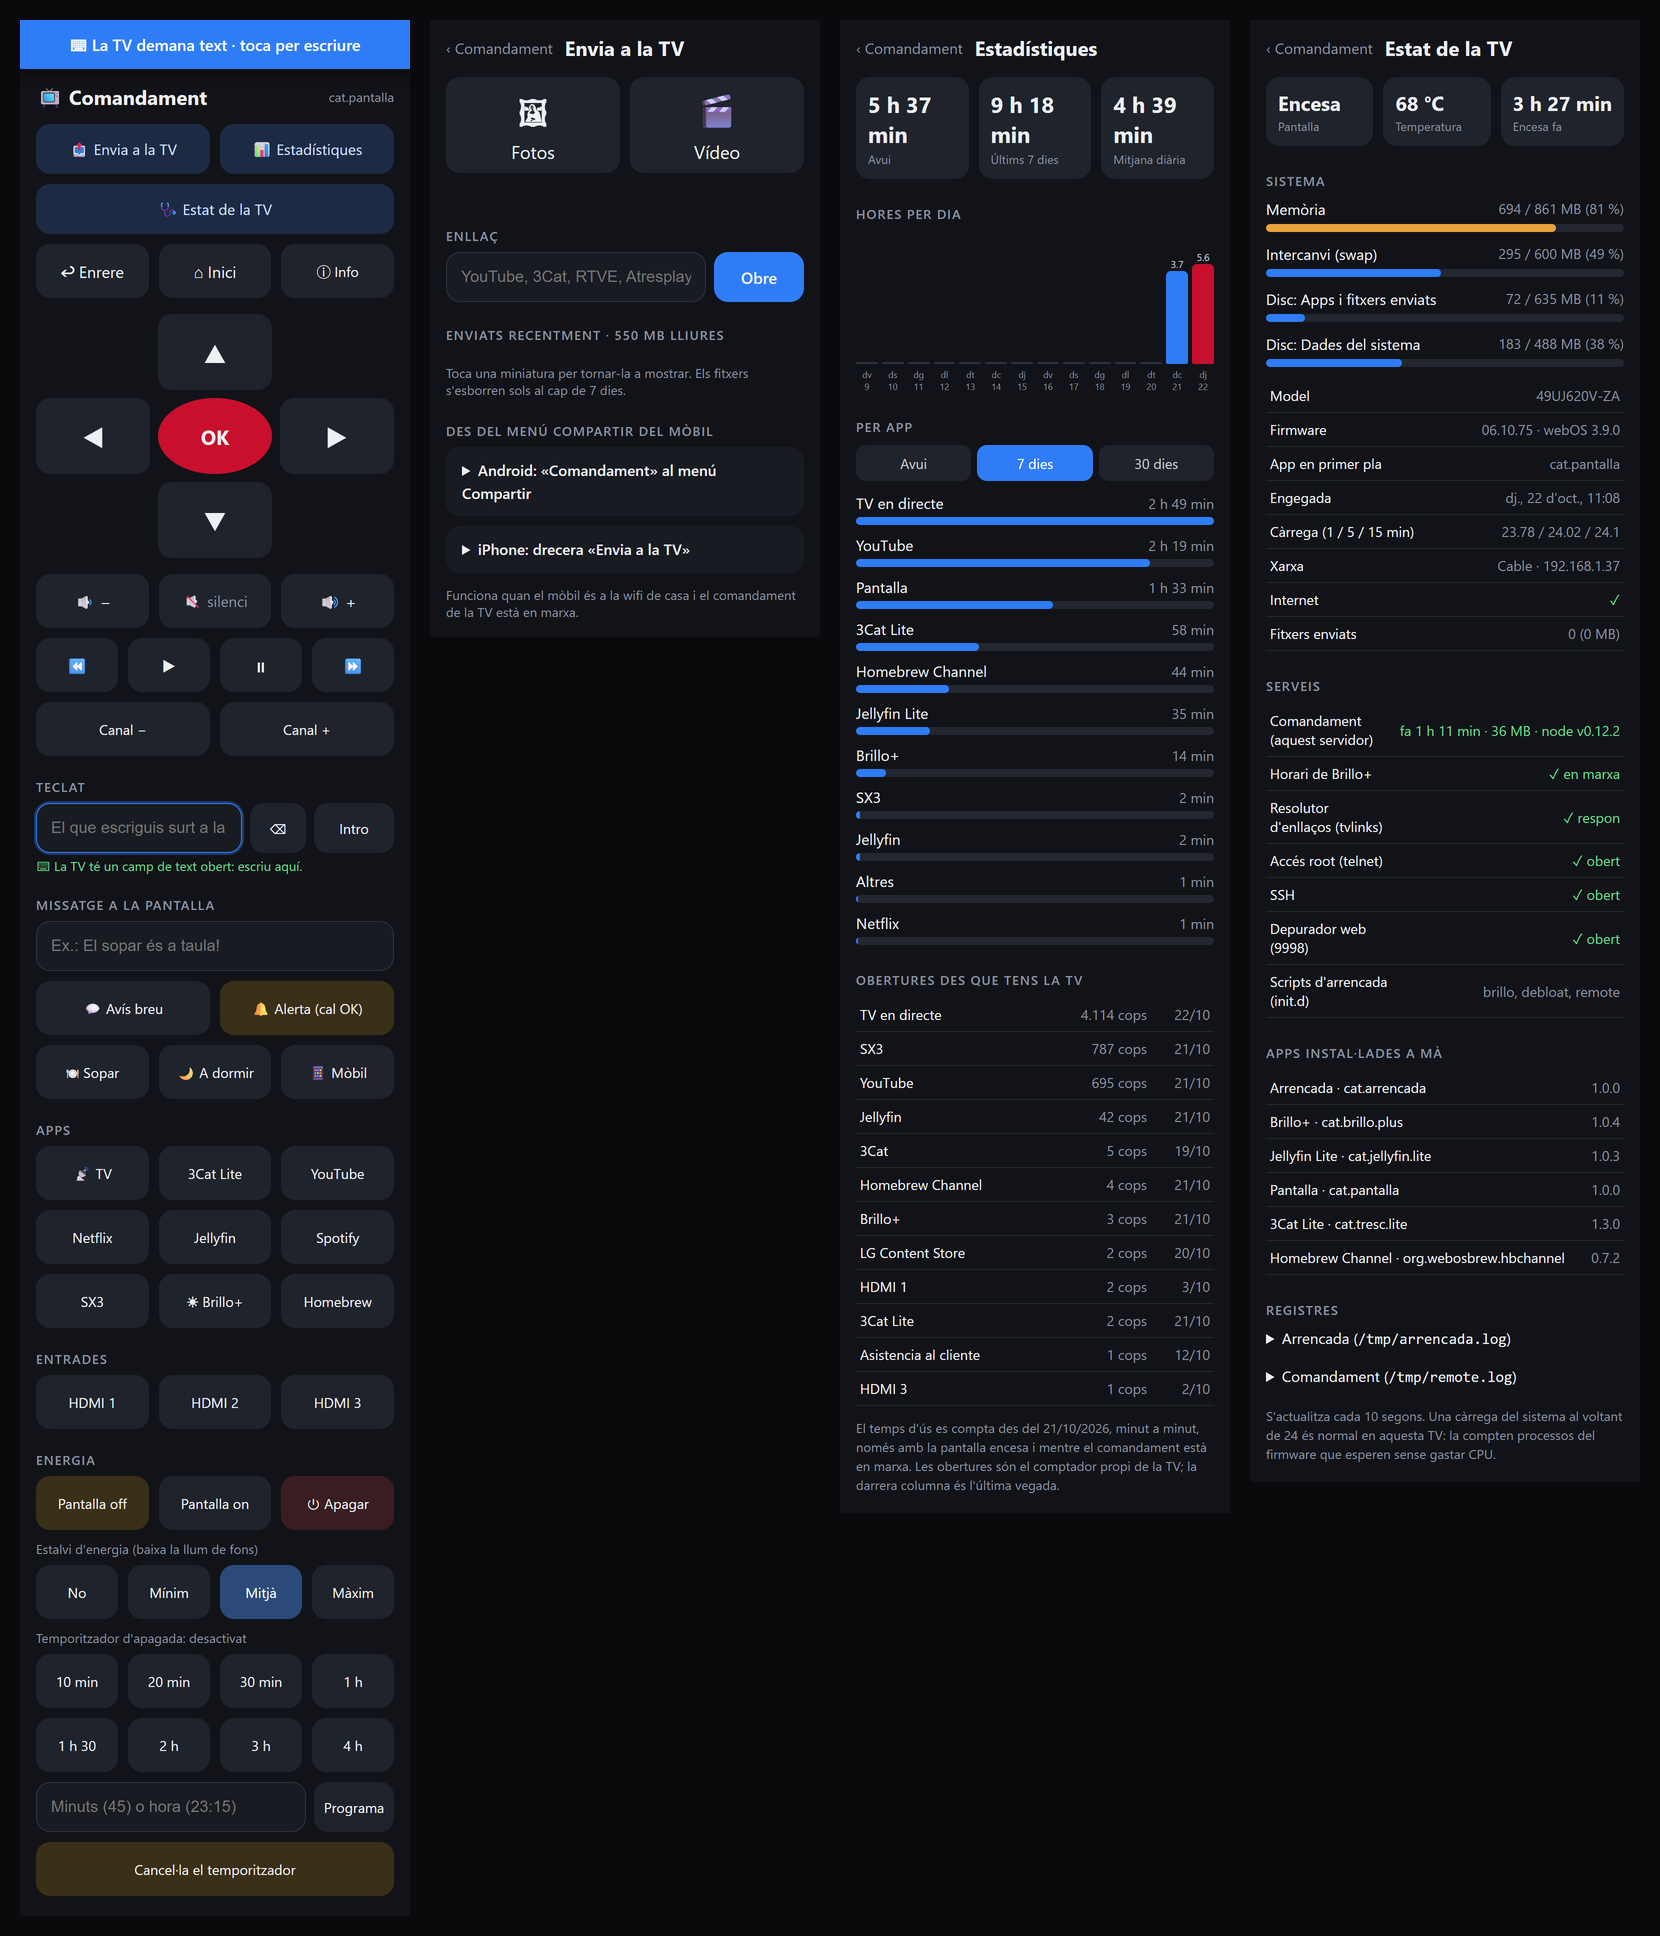
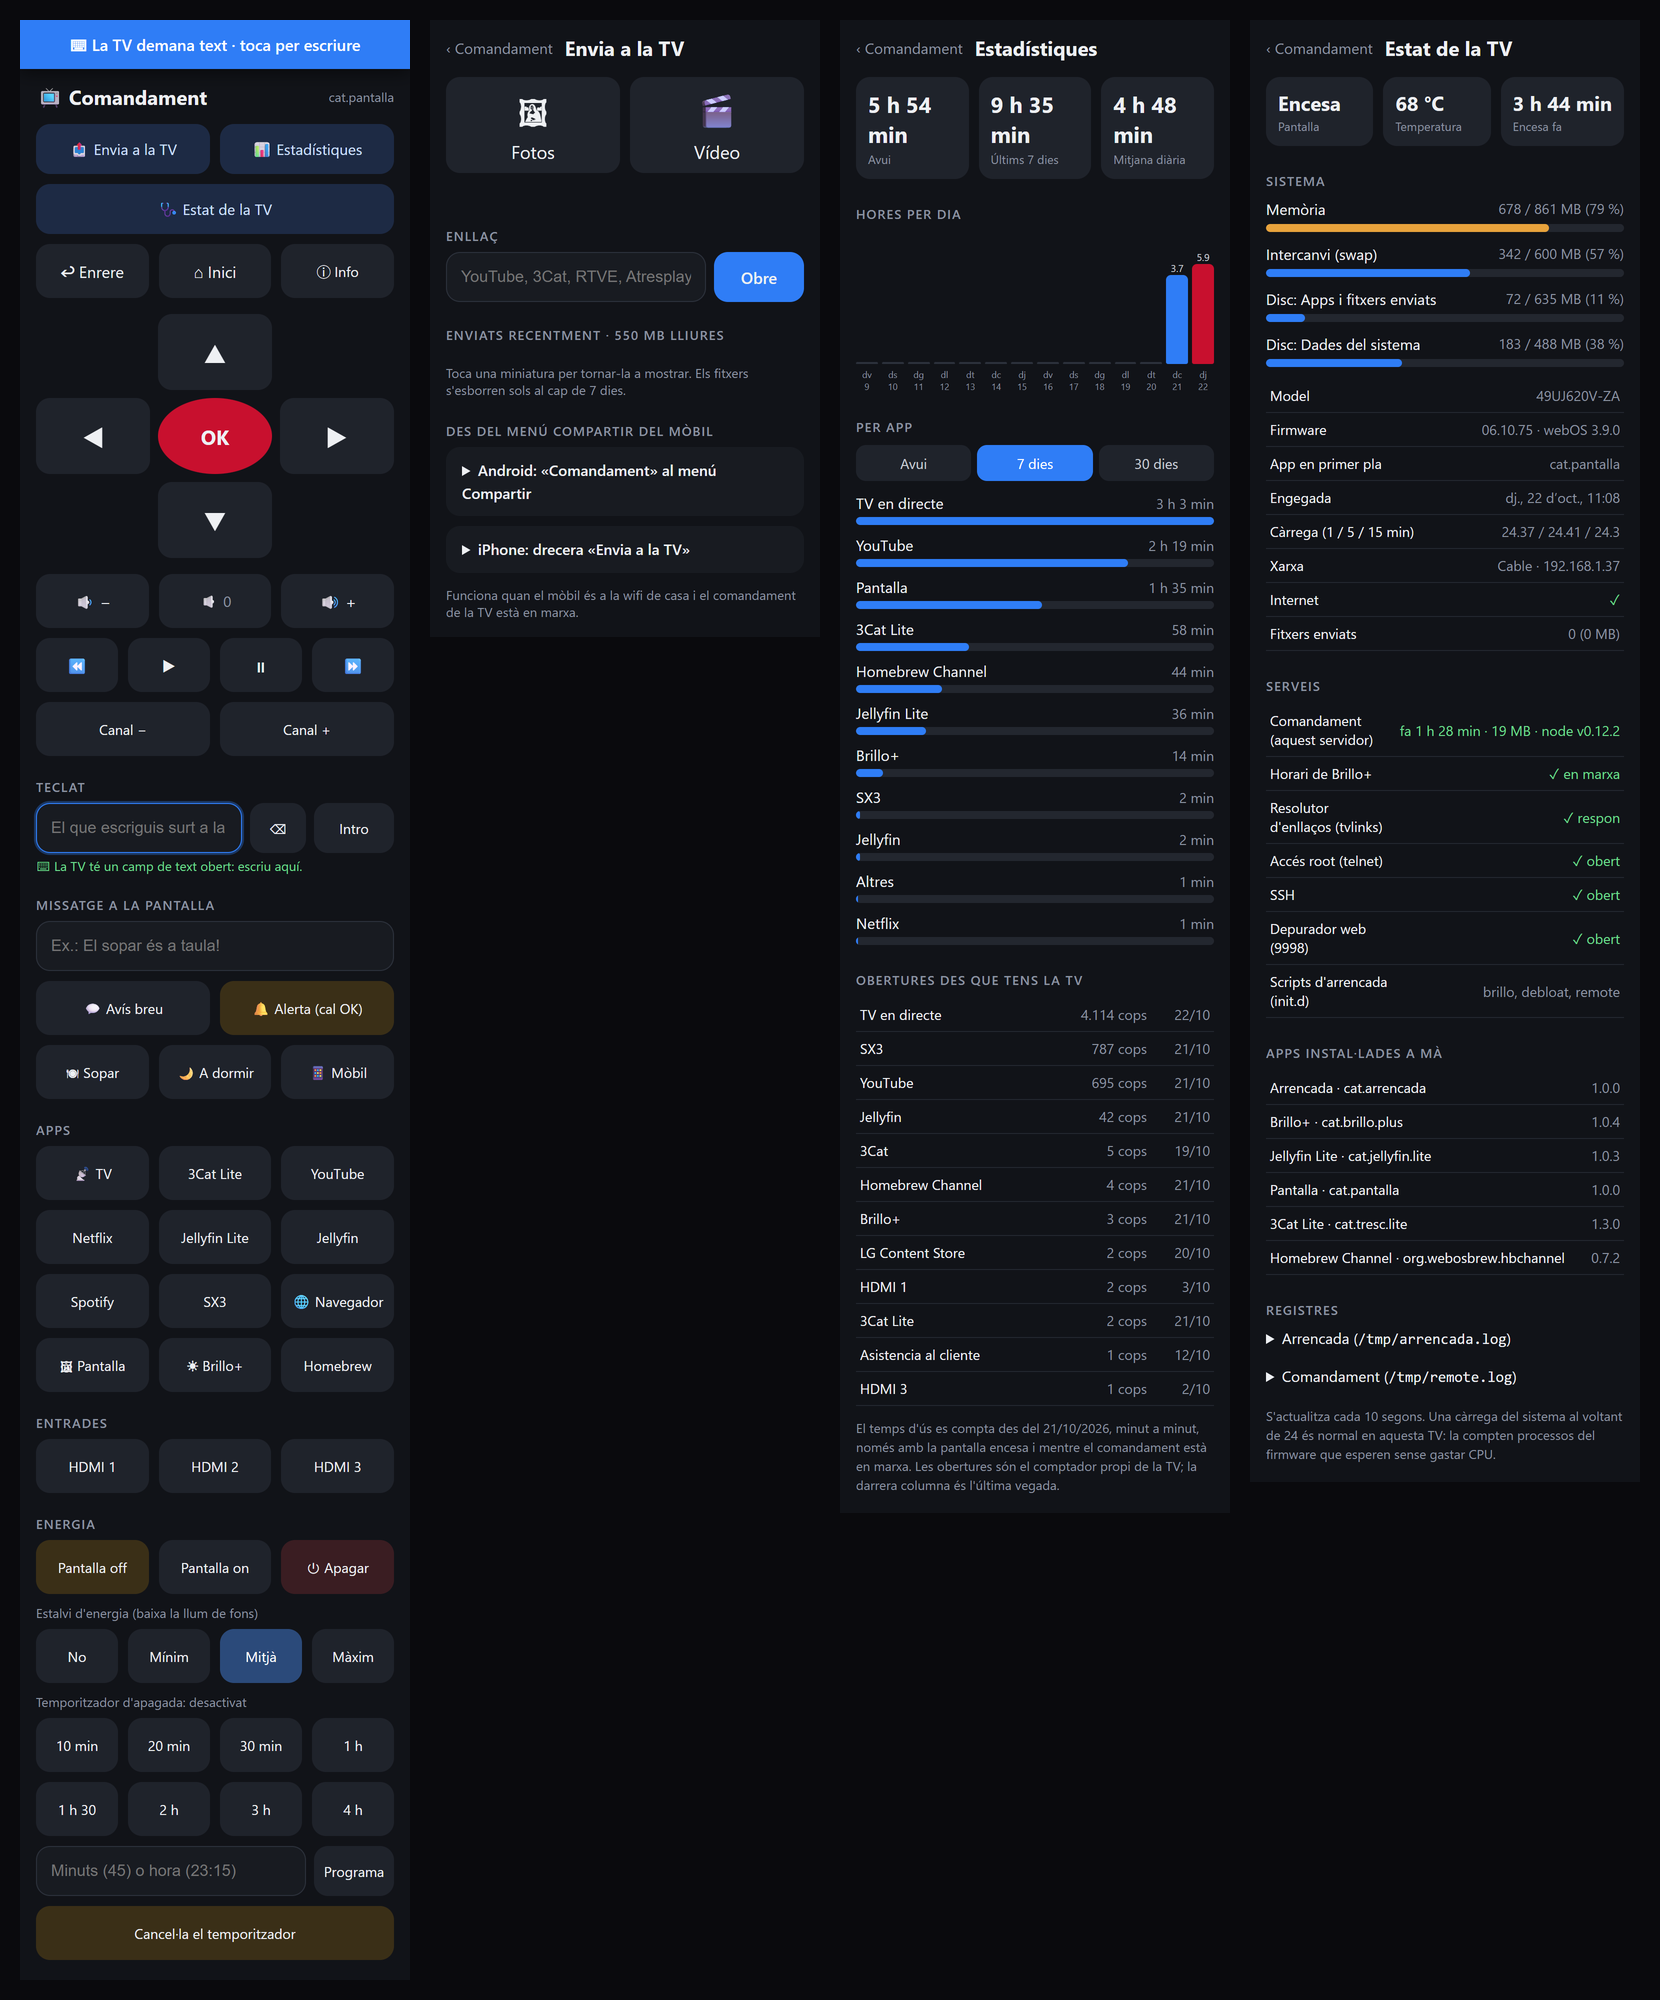
Comandament: botons de Jellyfin Lite, Pantalla i el navegador
La secció d'apps tenia les apps de fa uns dies. Ara també obre Jellyfin
Lite, Pantalla i el navegador web (útil amb el teclat del mòbil).
Captura del mòbil actualitzada.

diff --git a/remote/index.html b/remote/index.html
@@ -111,9 +111,12 @@
     <button data-app="cat.tresc.lite" class="small">3Cat Lite</button>
     <button data-app="youtube.leanback.v4" class="small">YouTube</button>
     <button data-app="netflix" class="small">Netflix</button>
+    <button data-app="cat.jellyfin.lite" class="small">Jellyfin Lite</button>
     <button data-app="org.jellyfin.webos" class="small">Jellyfin</button>
     <button data-app="spotify-beehive" class="small">Spotify</button>
     <button data-app="cat.ccma.super3.webos" class="small">SX3</button>
+    <button data-app="com.webos.app.browser" class="small">🌐 Navegador</button>
+    <button data-app="cat.pantalla" class="small">🖼 Pantalla</button>
     <button data-app="cat.brillo.plus" class="small">☀ Brillo+</button>
     <button data-app="org.webosbrew.hbchannel" class="small">Homebrew</button>
   </div>
